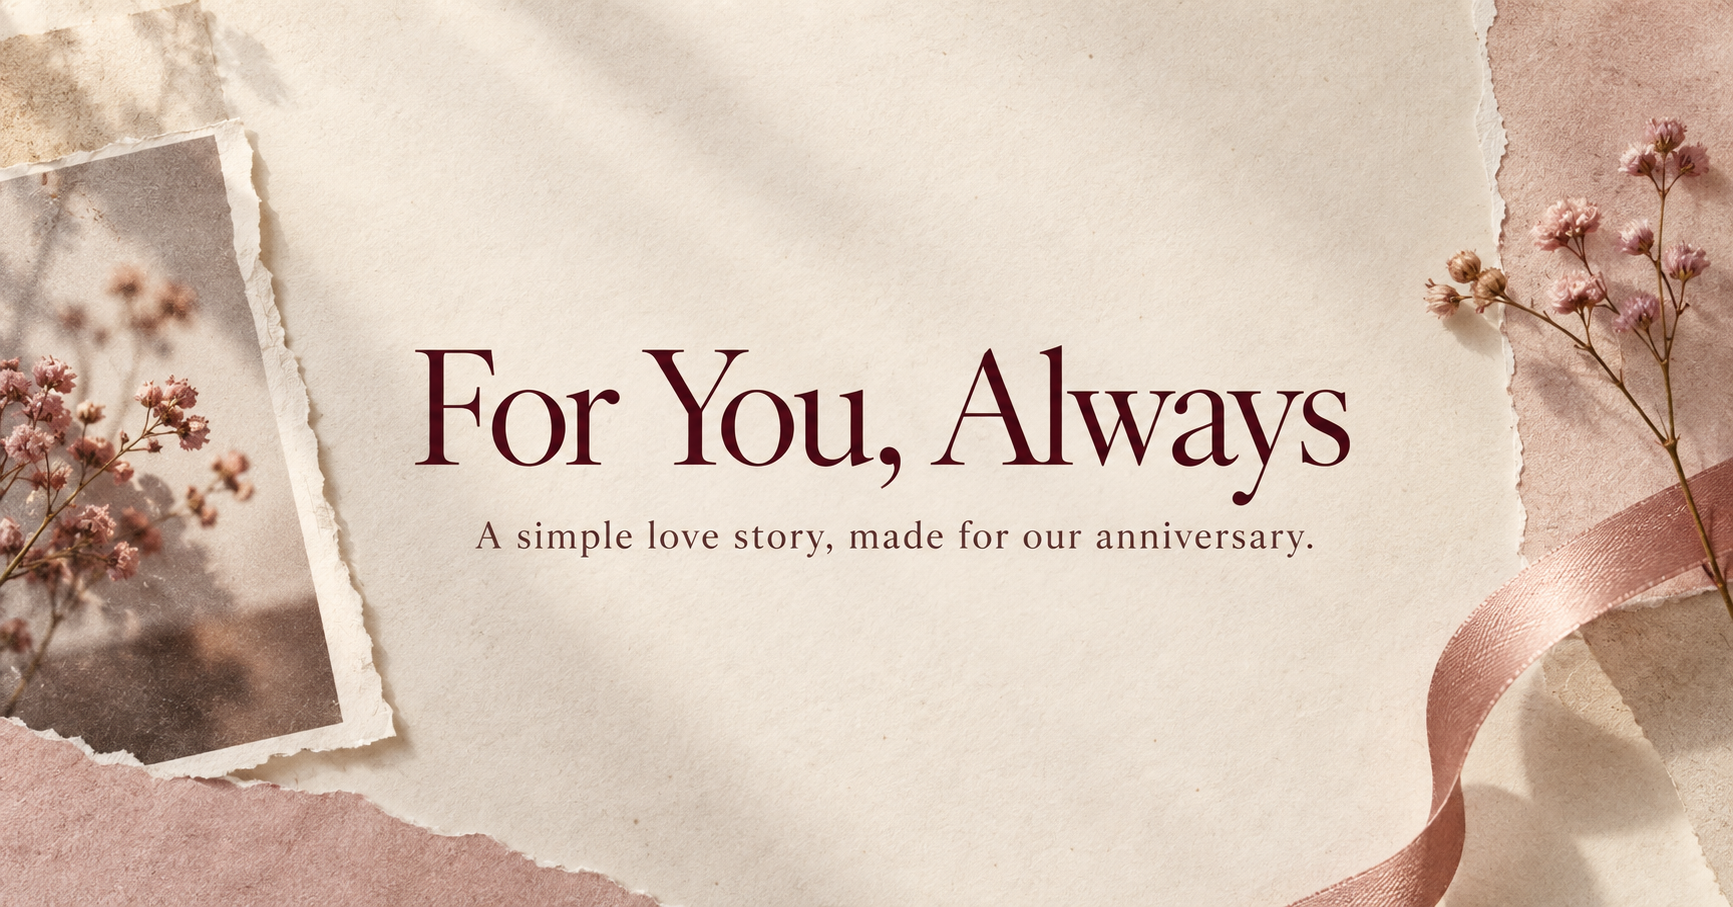
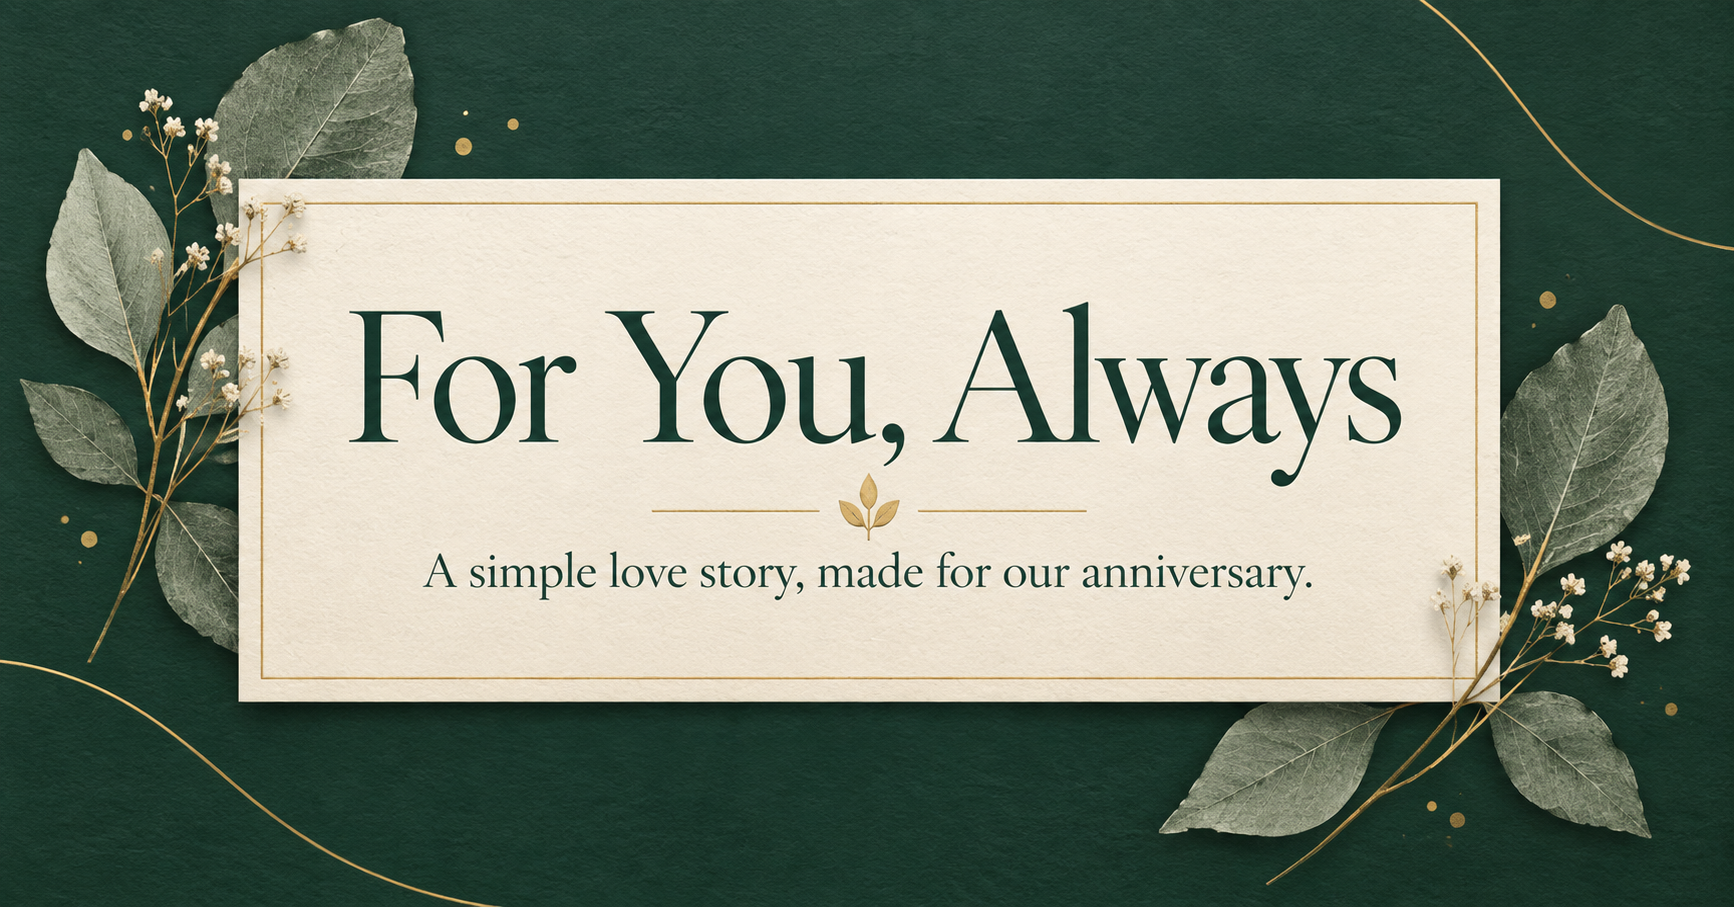
Apply green keepsake theme

diff --git a/src/app/globals.css b/src/app/globals.css
@@ -1,9 +1,10 @@
 /* All visual styles for the website are in this one file. */
 :root {
-  --wine: #6f2f3d;
-  --cream: #fff8ef;
-  --blush: #efd5d0;
-  --ink: #2d2022;
+  --wine: #183c32;
+  --cream: #f8f2e7;
+  --blush: #d9e4da;
+  --ink: #1d302a;
+  --gold: #efc976;
 }
 
 * { box-sizing: border-box; }
@@ -51,7 +52,7 @@ img { display: block; }
   font-size: 13px;
 }
 
-.nav-links { display: flex; gap: 32px; color: #725f62; font-size: 14px; }
+.nav-links { display: flex; gap: 32px; color: #41584f; font-size: 14px; }
 .nav-links a:hover { color: var(--wine); }
 
 .hero-layout {
@@ -76,7 +77,7 @@ img { display: block; }
   text-transform: uppercase;
 }
 
-.eyebrow.light { color: #eebbc4; }
+.eyebrow.light { color: var(--gold); }
 
 h1, h2, h3, p { margin-top: 0; }
 
@@ -101,7 +102,7 @@ h2 {
 .intro {
   max-width: 540px;
   margin: 30px 0;
-  color: #725f62;
+  color: #41584f;
   font-size: 18px;
   line-height: 1.75;
 }
@@ -126,9 +127,9 @@ h2 {
   margin: 0;
   aspect-ratio: 4 / 5;
   overflow: hidden;
-  border: 12px solid #fffdfa;
+  border: 12px solid #fbf7ee;
   border-radius: 48% 48% 18px 18px;
-  box-shadow: 0 30px 70px rgb(82 38 47 / 20%);
+  box-shadow: 0 30px 70px rgb(24 60 50 / 20%);
 }
 
 .hero-photo img { width: 100%; height: 100%; object-fit: cover; }
@@ -140,7 +141,7 @@ h2 {
   left: 20px;
   padding: 16px;
   border-radius: 12px;
-  background: rgb(255 248 239 / 88%);
+  background: rgb(248 242 231 / 90%);
   font-family: Georgia, serif;
   font-size: 18px;
   text-align: center;
@@ -150,14 +151,14 @@ h2 {
 .hero-signature {
   width: min(100%, 1360px);
   margin: 0 auto;
-  color: #917b7f;
+  color: #6b7d74;
   font-size: 11px;
   font-weight: 700;
   letter-spacing: 0.18em;
   text-transform: uppercase;
 }
 
-.story { background: #fffdf8; }
+.story { background: #fbf7ee; }
 
 .section-heading {
   max-width: 780px;
@@ -167,7 +168,7 @@ h2 {
 
 .section-heading > p:last-child,
 .letter-intro > p:last-child {
-  color: #78666a;
+  color: #52675f;
   font-size: 17px;
   line-height: 1.7;
 }
@@ -177,13 +178,13 @@ h2 {
   margin: 0 auto;
   display: grid;
   grid-template-columns: repeat(3, 1fr);
-  border-top: 1px solid #ddc9c5;
+  border-top: 1px solid #c2d0c3;
 }
 
 .timeline-item {
   position: relative;
   padding: 42px 28px 20px;
-  border-right: 1px solid #ddc9c5;
+  border-right: 1px solid #c2d0c3;
 }
 
 .timeline-item:last-child { border-right: 0; }
@@ -196,8 +197,8 @@ h2 {
   height: 32px;
   place-items: center;
   border-radius: 50%;
-  background: var(--wine);
-  color: white;
+  background: var(--gold);
+  color: var(--wine);
   font-size: 10px;
   font-weight: 700;
 }
@@ -218,7 +219,7 @@ h2 {
   line-height: 1.2;
 }
 
-.photos { background: #291d20; color: #fff8ef; }
+.photos { background: #102c25; color: var(--cream); }
 
 .photo-heading {
   width: min(100%, 1200px);
@@ -229,7 +230,7 @@ h2 {
   gap: 40px;
 }
 
-.photo-heading > p { max-width: 290px; color: #c9b4b8; line-height: 1.6; }
+.photo-heading > p { max-width: 290px; color: #c8d7ce; line-height: 1.6; }
 
 .photo-grid {
   width: min(100%, 1200px);
@@ -271,7 +272,7 @@ h2 {
 
 .albums {
   background:
-    radial-gradient(circle at 10% 20%, rgb(239 213 208 / 55%), transparent 30%),
+    radial-gradient(circle at 10% 20%, rgb(217 228 218 / 72%), transparent 30%),
     var(--cream);
 }
 
@@ -290,7 +291,7 @@ h2 {
 .album-heading > p {
   max-width: 310px;
   margin-bottom: 8px;
-  color: #78666a;
+  color: #52675f;
   font-size: 17px;
   line-height: 1.7;
 }
@@ -303,7 +304,7 @@ h2 {
 }
 
 .album-card {
-  border-top: 1px solid #d9c4c0;
+  border-top: 1px solid #c2d0c3;
 }
 
 .album-card-heading {
@@ -334,7 +335,7 @@ h2 {
 
 .album-count {
   margin-bottom: 0;
-  color: #8b7478;
+  color: #6b7d74;
   font-size: 13px;
 }
 
@@ -361,7 +362,7 @@ h2 {
   cursor: pointer;
   align-items: center;
   gap: 14px;
-  border: 1px solid #d5bfbb;
+  border: 1px solid #b7c8bb;
   border-radius: 999px;
   color: var(--wine);
   font-size: 13px;
@@ -378,7 +379,7 @@ h2 {
   width: 38px;
   height: 38px;
   flex: 0 0 auto;
-  border: 1px solid #cbb4b0;
+  border: 1px solid #aebfb4;
   border-radius: 50%;
 }
 
@@ -426,7 +427,7 @@ h2 {
   border: 0;
   border-radius: 12px;
   background: var(--blush);
-  box-shadow: 0 14px 36px rgb(82 38 47 / 10%);
+  box-shadow: 0 14px 36px rgb(24 60 50 / 12%);
 }
 
 .album-photo:focus-visible {
@@ -450,7 +451,7 @@ h2 {
   padding: 76px 24px 24px;
   display: grid;
   place-items: center;
-  background: rgb(22 12 15 / 94%);
+  background: rgb(9 29 23 / 94%);
   backdrop-filter: blur(10px);
 }
 
@@ -478,9 +479,9 @@ h2 {
   right: 24px;
   padding: 11px 18px;
   cursor: pointer;
-  border: 1px solid rgb(255 248 239 / 40%);
+  border: 1px solid rgb(248 242 231 / 40%);
   border-radius: 999px;
-  background: rgb(255 248 239 / 12%);
+  background: rgb(248 242 231 / 12%);
   color: var(--cream);
   font: inherit;
   font-size: 13px;
@@ -506,10 +507,10 @@ h2 {
 .letter-paper {
   min-height: 380px;
   padding: 32px;
-  border: 1px solid rgb(111 47 61 / 16%);
+  border: 1px solid rgb(24 60 50 / 16%);
   border-radius: 6px;
-  background: #fffdf8;
-  box-shadow: 0 28px 60px rgb(74 37 45 / 14%);
+  background: #fbf7ee;
+  box-shadow: 0 28px 60px rgb(24 60 50 / 14%);
 }
 
 .letter-paper summary {
@@ -526,11 +527,11 @@ h2 {
 }
 
 .letter-paper summary::-webkit-details-marker { display: none; }
-.letter-paper[open] summary { min-height: auto; padding-bottom: 24px; border-bottom: 1px solid #eadbd7; }
+.letter-paper[open] summary { min-height: auto; padding-bottom: 24px; border-bottom: 1px solid #c6d4c8; }
 
 .letter-text {
   padding: 34px 22px 10px;
-  color: #523e42;
+  color: #2f483f;
   font-family: Georgia, serif;
   font-size: 21px;
   line-height: 1.8;
@@ -556,7 +557,7 @@ footer span { margin: 0 8px; }
   .nav-links { display: none; }
   .hero-layout, .letter { grid-template-columns: 1fr; }
   .hero-photo { width: min(100%, 520px); margin: 0 auto; }
-  .timeline { grid-template-columns: 1fr; border-top: 0; border-left: 1px solid #ddc9c5; }
+  .timeline { grid-template-columns: 1fr; border-top: 0; border-left: 1px solid #c2d0c3; }
   .timeline-item { padding: 20px 24px 38px 40px; border-right: 0; }
   .timeline-number { top: 18px; left: -16px; }
   .photo-heading { display: block; }

diff --git a/src/content.ts b/src/content.ts
@@ -23,10 +23,11 @@ export const content = {
   letterClosing:
     'Whatever comes next, I hope we meet it the way we have met everything else — side by side.',
   colors: {
-    wine: '#6f2f3d',
-    cream: '#fff8ef',
-    blush: '#efd5d0',
-    ink: '#2d2022',
+    wine: '#183c32',
+    cream: '#f8f2e7',
+    blush: '#d9e4da',
+    ink: '#1d302a',
+    gold: '#efc976',
   },
   photos: [
     { src: imageUrl(heroPhoto), alt: 'A couple sharing a quiet moment' },

diff --git a/src/Website.tsx b/src/Website.tsx
@@ -52,6 +52,7 @@ export function Website() {
     '--cream': content.colors.cream,
     '--blush': content.colors.blush,
     '--ink': content.colors.ink,
+    '--gold': content.colors.gold,
   } as React.CSSProperties;
 
   return (
